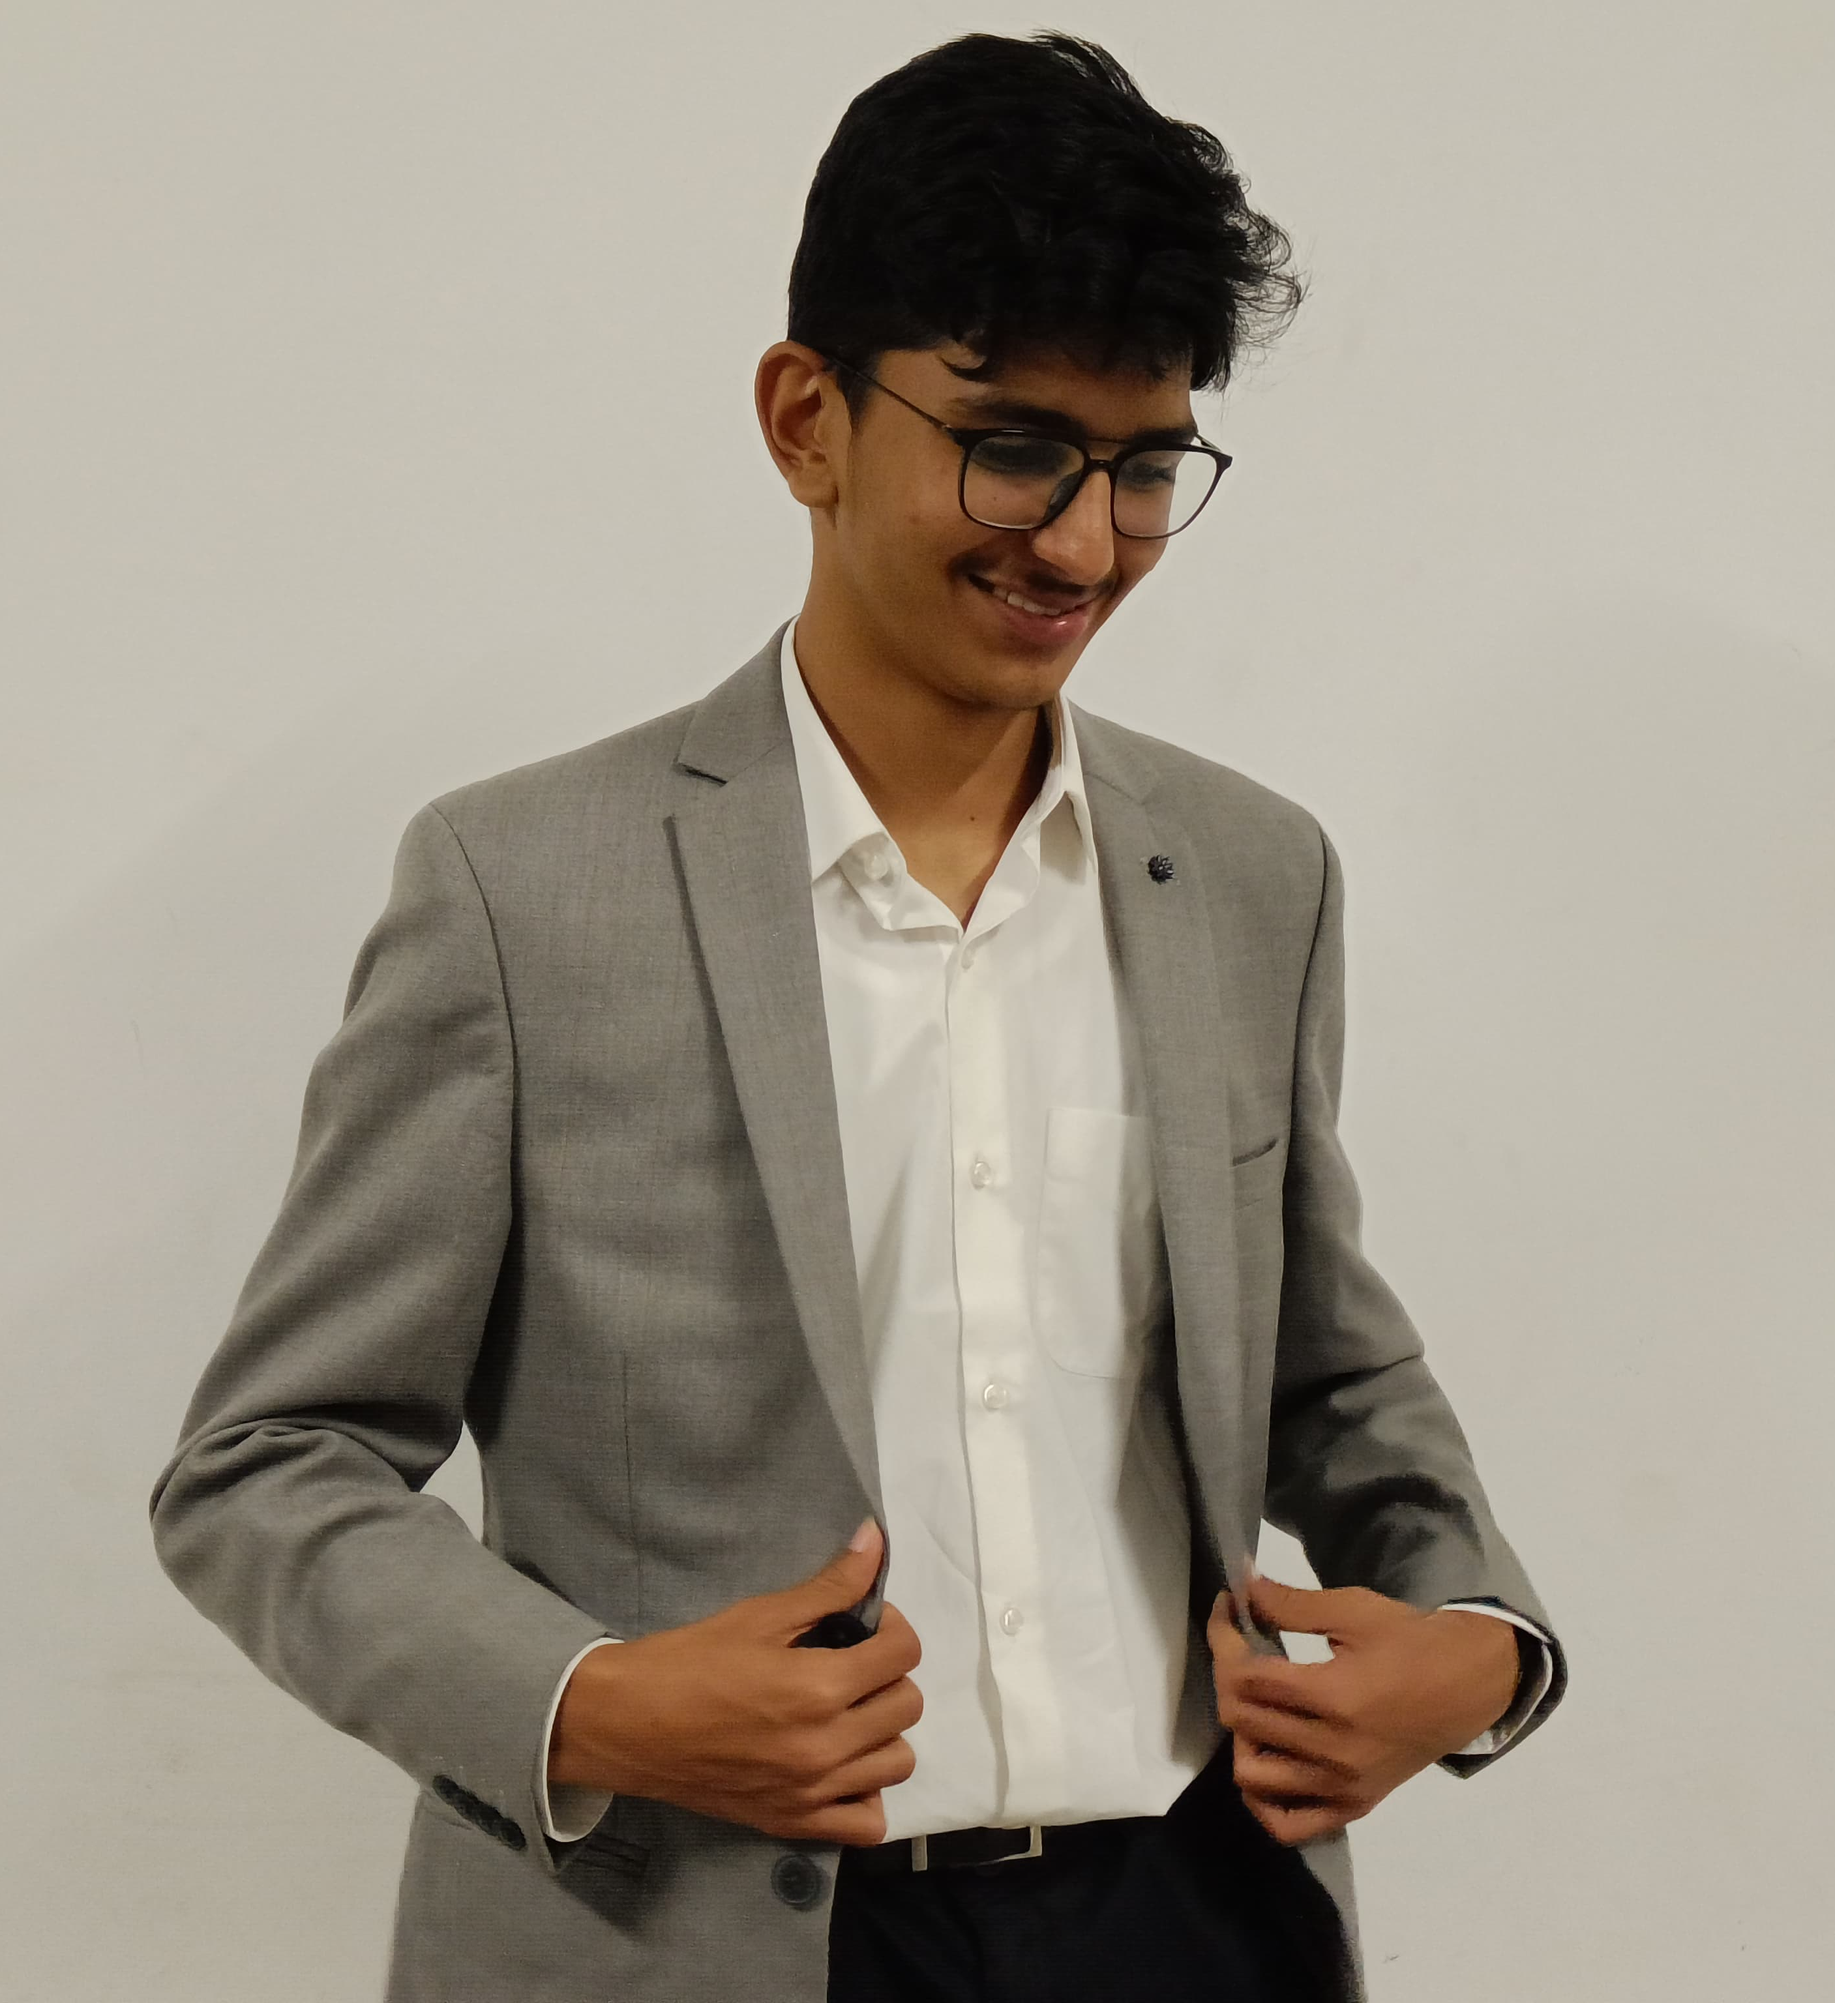
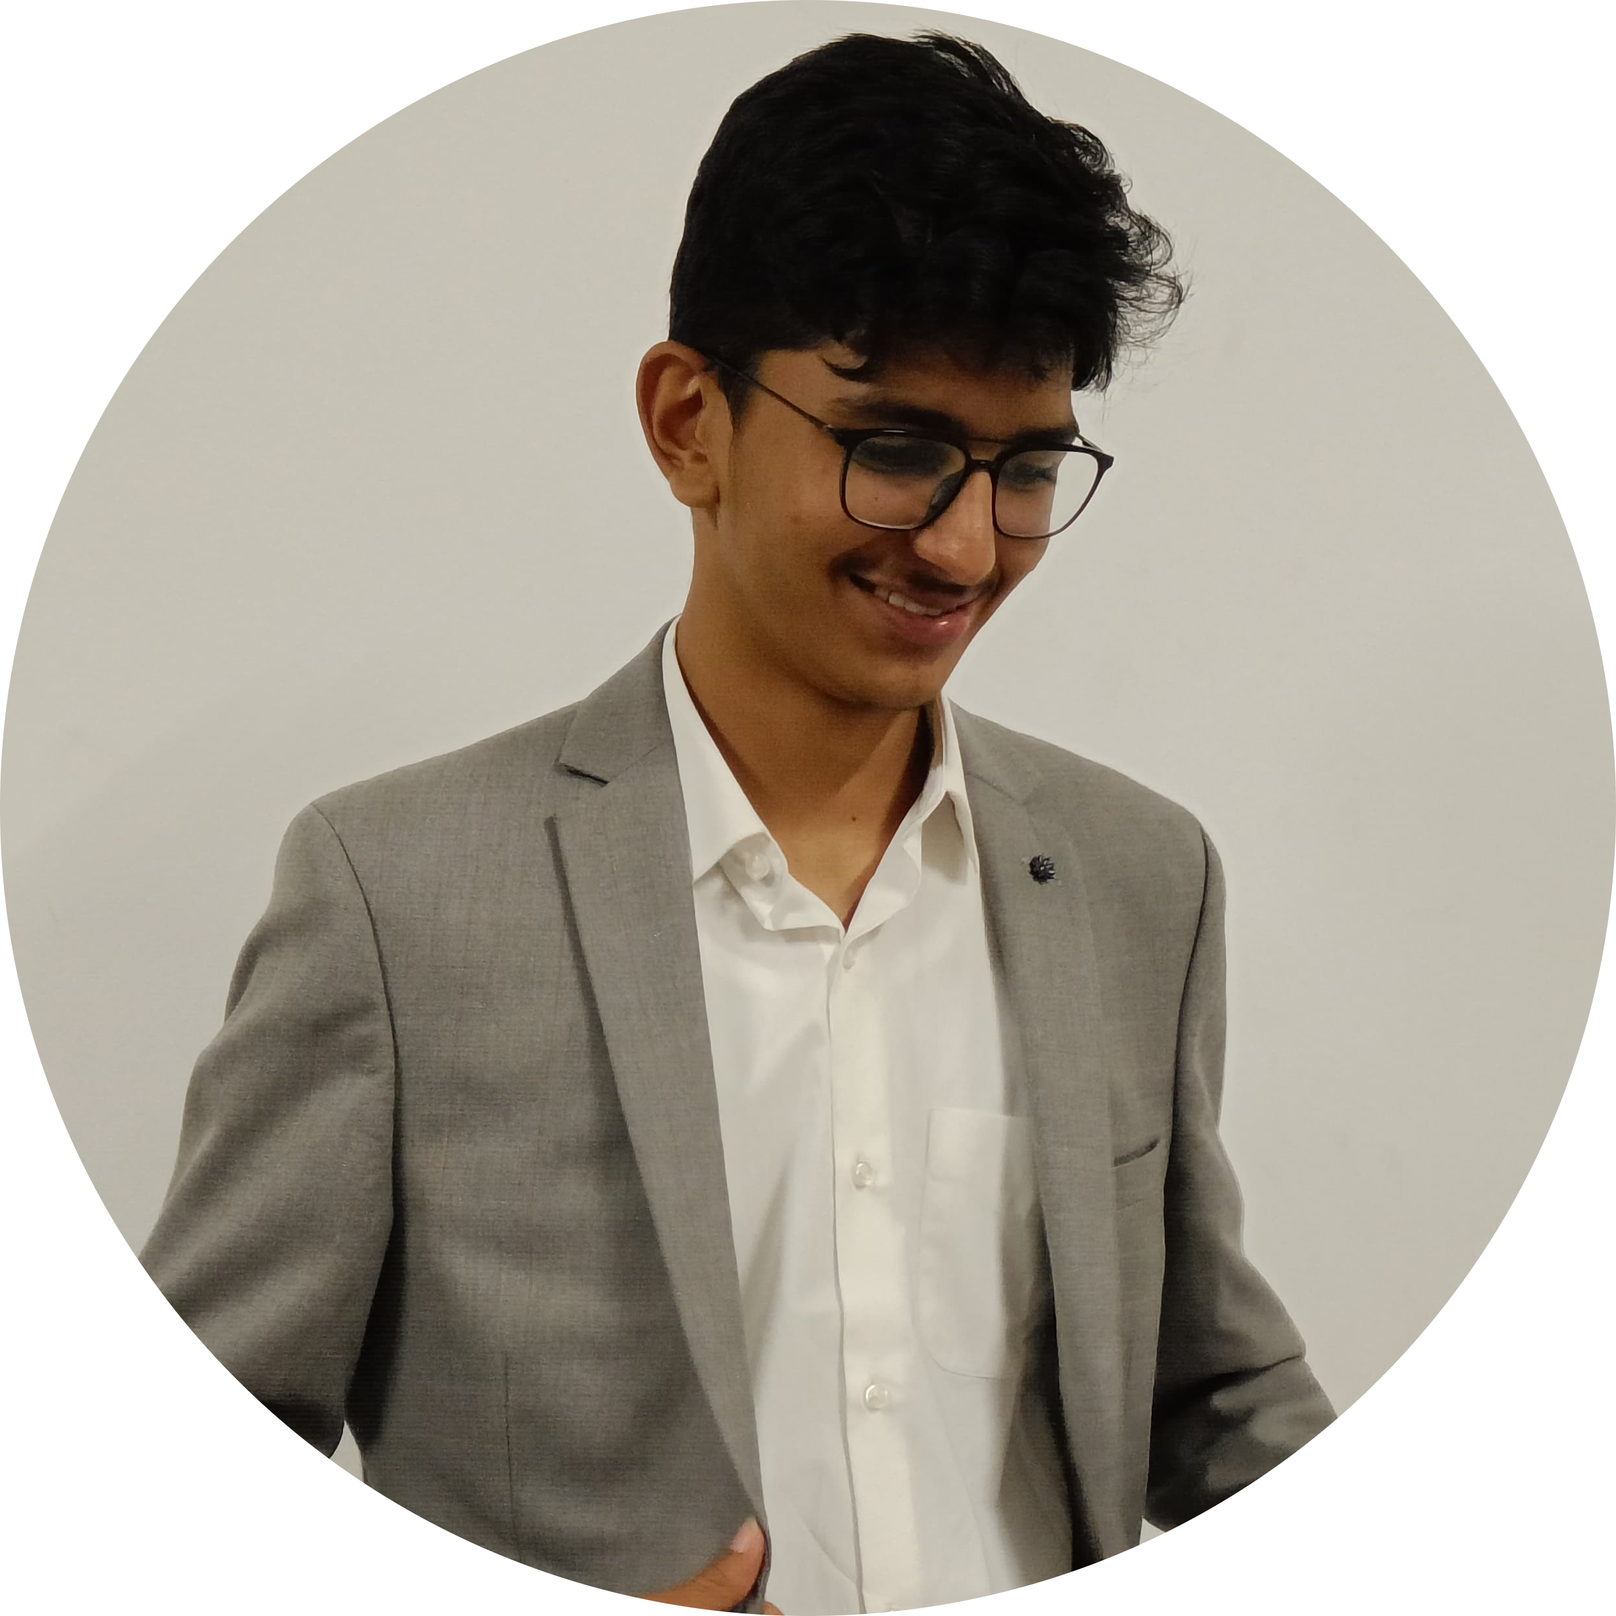
Made a few changes

diff --git a/index.html b/index.html
@@ -80,17 +80,33 @@
         </div>
       </section>
       <section id="about" class="section">
+        <div class="section-title">
+          <h1>About Me</h1>
+        </div>
         <div class="section-content">
-          <h2>About Me</h2>
-          <p>
-            Lorem ipsum dolor sit amet, consectetur adipiscing elit. Integer nec
-            odio. Praesent libero.
-          </p>
+          <div class="about-text">
+            <p>
+              I'm Amit Patil, currently pursuing a B.Tech in Computer Science at
+              DES Pune University. I'm passionate about computers and fascinated
+              by how they work. There's just something about coding that clicks
+              with me — I absolutely love it. I have experience with JavaScript,
+              C, C++, HTML, and CSS, and I'm currently exploring Python. One
+              day, I hope to work at Google. My dream city is NYC (go ahead, sue
+              me). Solving real-world problems through code? That’s what really
+              drives me.
+            </p>
+          </div>
+          <div class="about-img">
+            <img src="./imgs/about-pic.png" alt="Amit Patil" />
+          </div>
         </div>
       </section>
+
       <section id="experience" class="section">
         <div class="section-content">
-          <h2>Experience</h2>
+          <div class="section-title">
+            <h1>Experience</h1>
+          </div>
           <p>
             Lorem ipsum dolor sit amet, consectetur adipiscing elit. Integer nec
             odio. Praesent libero.
@@ -99,13 +115,74 @@
       </section>
       <section id="projects" class="section">
         <div class="section-content">
-          <h2>Projects</h2>
-          <p>Here are some of my recent works. (Dummy content)</p>
+          <div class="section-title">
+            <h1>Projects</h1>
+          </div>
+          <div class="project-cards">
+            <div class="project-card">
+              <img src="./imgs/project-1.png" alt="Project 1" />
+              <h3>To-do List</h3>
+              <p>
+                A simple to-do list web app with HTML, CSS, Javascript with
+                create, delete, done functions.
+              </p>
+              <div class="buttons">
+                <a
+                  href="https://imamit06.github.io/todo-app/"
+                  target="_blank"
+                  class="btn"
+                  >Live Demo</a
+                >
+                <a
+                  href="https://github.com/imAmit06/todo-app"
+                  target="_blank"
+                  class="btn"
+                  >Github</a
+                >
+              </div>
+            </div>
+            <div class="project-card">
+              <img src="./imgs/project-2.png" alt="Project 2" />
+              <h3>Age Calculator</h3>
+              <p>
+                This app calculates your age in years, months, and days based on
+                the input date.
+              </p>
+              <div class="buttons">
+                <a
+                  href="https://imamit06.github.io/age-calculator/"
+                  target="_blank"
+                  class="btn"
+                  >Live Demo</a
+                >
+                <a
+                  href="https://github.com/imAmit06/age-calculator"
+                  target="_blank"
+                  class="btn"
+                  >Github</a
+                >
+              </div>
+            </div>
+            <!-- <div class="project-card">
+              <img src="./imgs/project-1.png" alt="Project 1" />
+              <h3>To-do List</h3>
+              <p>
+                A simple to-do list web app with HTML, CSS, Javascript with
+                create, delete, done functions.
+              </p>
+              <div class="buttons">
+                <a href="#" target="_blank" class="btn">Live Demo</a>
+                <a href="#" target="_blank" class="btn">Github</a>
+              </div>
+            </div> -->
+          </div>
         </div>
       </section>
       <section id="contact" class="section">
         <div class="section-content">
-          <h2>Contact</h2>
+          <div class="section-title">
+            <h1>Contact</h1>
+          </div>
           <p>Get in touch via email or social media. (Dummy content)</p>
         </div>
       </section>

diff --git a/style.css b/style.css
@@ -2,6 +2,7 @@
   --background: #181a1b;
   --foreground: #fff;
   --accent: #00fff7;
+  --card-background: #0A1F20;
   --font: 'Outfit', sans-serif;
 }
 
@@ -18,6 +19,15 @@ html, body {
 body {
   min-height: 100vh;
 }
+
+.section-title {
+  color: var(--accent);
+  text-align: center;
+  font-size: 1.5rem;
+  font-weight: 800;
+}
+
+/* Navbar */
 
 .navbar {
   position: fixed;
@@ -126,7 +136,7 @@ body {
   padding-top: 70px; 
   box-sizing: border-box;
 }
-
+/* Hero Section */
 .hero-flex {
   display: flex;
   align-items: center;
@@ -230,16 +240,86 @@ body {
   box-shadow: 0 0 0 6px rgba(0,255,247,0.12);
 }
 
-.section-content {
-  max-width: 600px;
-  text-align: center;
-}
 
 .section-content h2 {
   color: var(--accent);
   font-size: 2rem;
   margin-bottom: 18px;
   font-weight: 700;
+}
+
+/* About Section */
+
+#about .section-content {
+  display: flex;
+  align-items: center;
+  justify-content: space-between;
+  gap: 220px;           
+  padding: 40px 20px;
+  flex-wrap: nowrap;
+  flex-direction: row-reverse;
+}
+
+
+.about-text {
+  text-align: left;
+  flex: 1 1 0;
+  font-size: 1.13rem;
+  line-height: 1.8;
+  color: var(--foreground);
+  justify-content: flex-start;
+  align-items: flex-start;
+  display: flex;
+  min-width: 260px;
+  max-width: 520px;
+}
+
+.about-img {
+  flex: 0 0 auto;
+  display: flex;
+  justify-content: flex-end;
+  align-items: center;
+}
+
+.about-img img {
+  width: 300px;
+  height: 300px;
+  object-fit: cover;
+  border-radius: 50%;
+  border: 3px solid transparent;
+  box-sizing: border-box;
+  background: #222;
+  box-shadow: 0 6px 32px rgba(0,255,247,0.10), 0 1.5px 8px rgba(0,0,0,0.18);
+  transition: box-shadow 0.18s, border-color 0.18s;
+}
+
+.about-img img:hover {
+  border-color: var(--accent);
+  box-shadow: 0 0 0 6px rgba(0,255,247,0.12);
+}
+
+#about h1 {
+  color: var(--accent);
+}
+
+@media (max-width: 900px) {
+  #about .section-content {
+    flex-direction: column;
+    align-items: center;
+    gap: 32px;
+    padding: 30px 10px;
+  }
+  .about-text {
+    justify-content: center;
+    align-items: center;
+    text-align: center;
+    width: 100%;
+    max-width: 100%;
+  }
+  .about-img {
+    justify-content: center;
+    width: 100%;
+  }
 }
 
 @media (max-width: 1100px) {
@@ -335,3 +415,70 @@ body {
 }
 
 
+
+/* Project Section */
+
+.project-cards {
+  display: flex;
+  gap: 30px;
+  flex-wrap: wrap;
+  justify-content: center;
+  padding: 30px 0;
+  perspective: 1000px;
+}
+
+.project-card {
+  background-color: #1e1e1e;
+  border-radius: 15px;
+  padding: 20px;
+  width: 300px;
+  box-shadow: 0 0 20px rgba(0, 255, 247, 0.1);
+  display: flex;
+  flex-direction: column;
+  align-items: center;
+  transition: transform 0.3s ease;
+  transform-style: preserve-3d;
+}
+
+.project-card:hover {
+  transform: rotateY(-10deg);
+}
+
+.project-card img {
+  width: 100%;
+  height: 200px;
+  object-fit: cover;
+  border-radius: 10px;
+  margin-bottom: 5px;
+}
+
+.project-card h3 {
+  color: var(--accent);
+  margin-bottom: -3px;
+}
+
+.project-card p {
+  color: var(--foreground);
+  text-align: center;
+  font-size: 0.95rem;
+  margin-bottom: 20px;
+}
+
+.buttons {
+  display: flex;
+  gap: 10px;
+}
+
+.btn {
+  background-color: #00fff7;
+  color: #000;
+  padding: 8px 16px;
+  border-radius: 8px;
+  text-decoration: none;
+  font-weight: bold;
+  transition: background 0.3s ease;
+}
+
+.btn:hover {
+  background-color: #00ccc3;
+}
